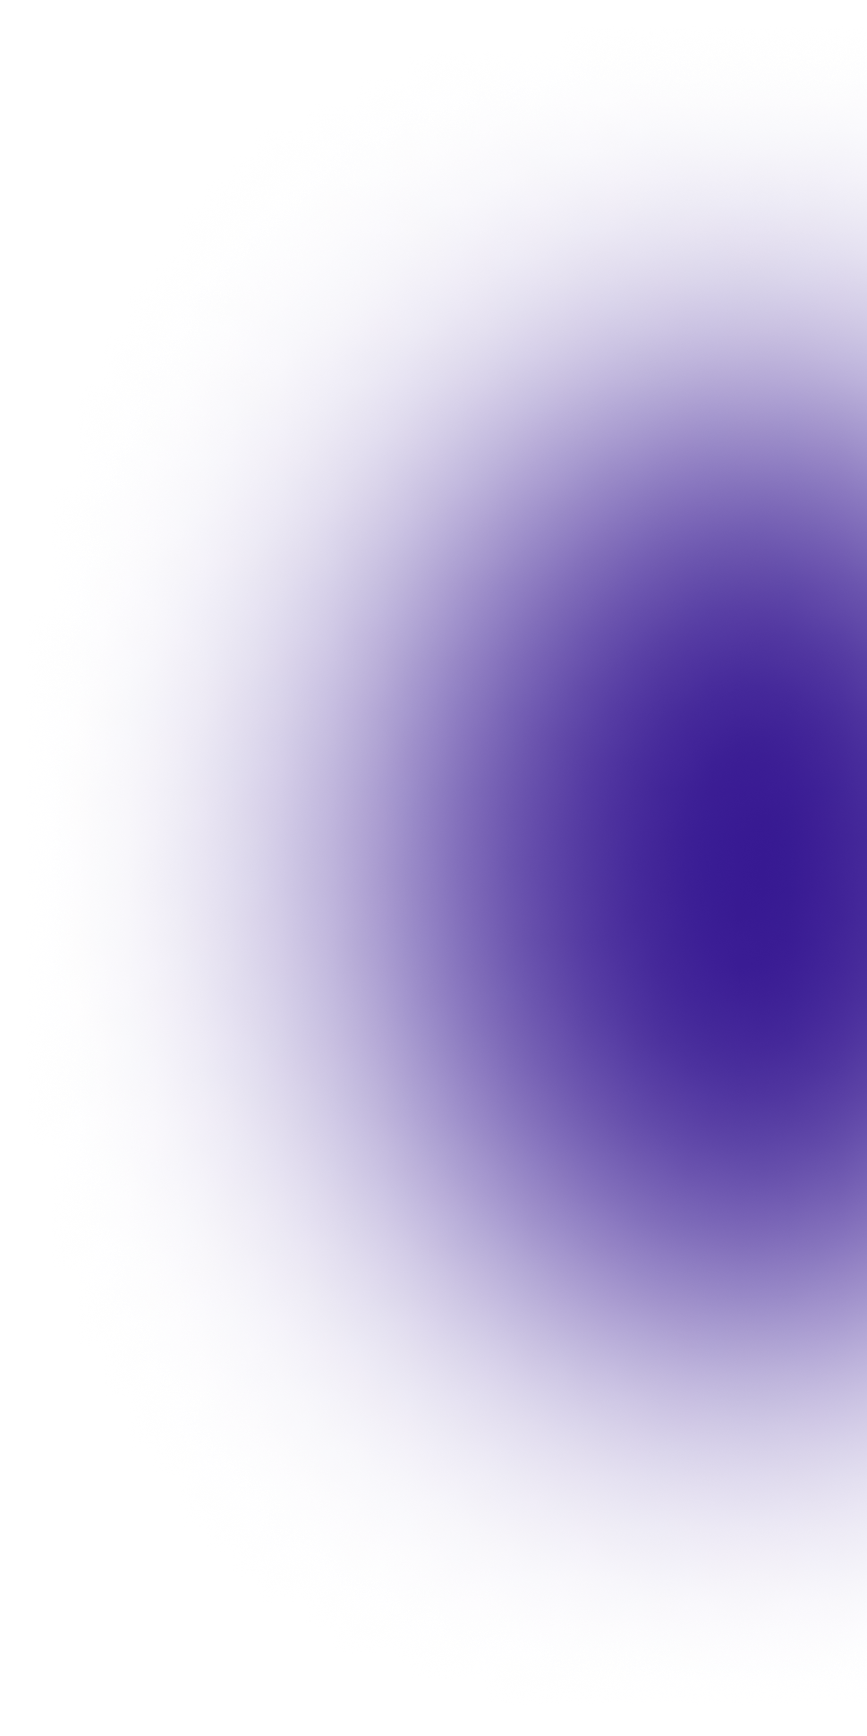
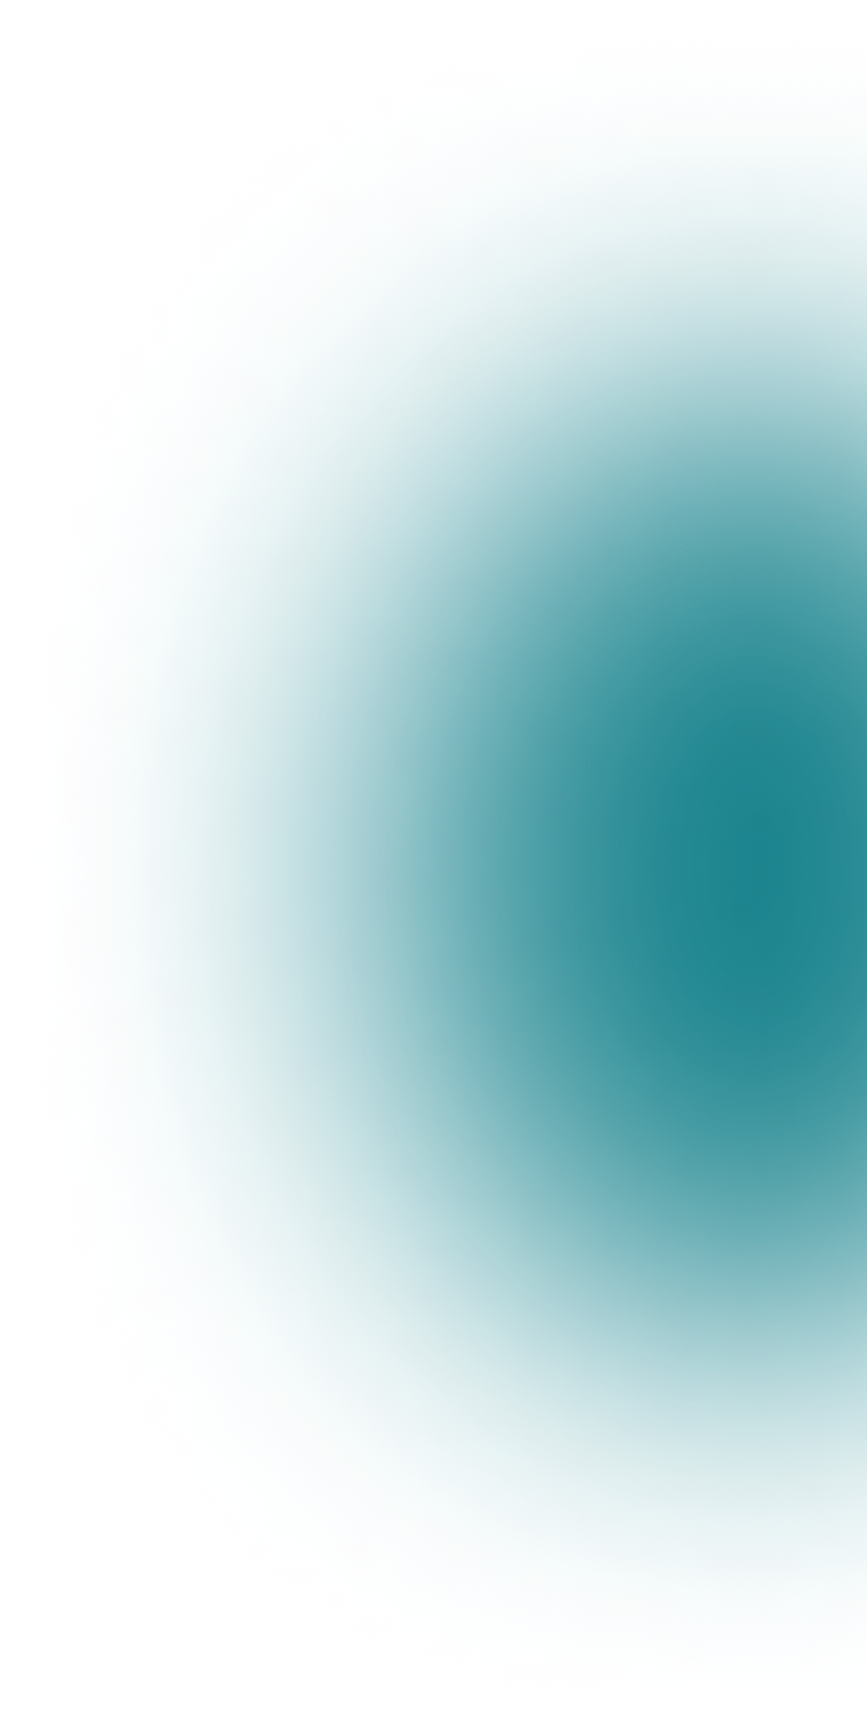
ci

diff --git a/public/assets/PrivacyPolicyBlockPuzzle.html b/public/assets/PrivacyPolicyBlockPuzzle.html
@@ -53,45 +53,52 @@
     <div class="section">
         <h2>Scope</h2>
         <p>
-		This Privacy Policy ("Policy") governs the practices of FoshanGreengrass 佛山市绿草块软件开发有限责任公司 ("佛山市绿草块软件开发有限责任公司," "we," "our," or "us") regarding the collection, use, disclosure, and handling of information, including personal and device information, in relation to all our products, software, services, and websites (collectively referred to as "Services"). By accessing and using our Services, you ("you" or "your") consent to the terms outlined in this Policy.
-Our products：Fire Away Brother! - Shooting、Crossmath Number Chain、Green Block Blast!、Circle shape sort、Sudoku CrossMath.
-Our Services are intended for individuals who can legally enter into binding contracts. If you are under the age of 13 or lack the legal capacity to enter into binding contracts, you must refrain from using our Services and providing any personal information. If you do not agree with this Policy, please do not access, sign up for, or use our Services.
-佛山市绿草块软件开发有限责任公司 reserves the right to amend this Policy at any time. We encourage you to periodically review this section for updates and changes. Significant changes may be communicated to you via email or system messages.
-For inquiries related to privacy matters, please contact our Privacy Officer at the following email address: lvcaokuai666@gmail.com.
+		This Privacy Policy ("Policy") governs the practices of AbsoluteSecure Limited ("AbsoluteSecure Limited," "we," "our," or "us") regarding the collection, use, disclosure, and handling of information, including personal and device information, in relation to all our products, software, services, and websites (collectively referred to as "Services"). By accessing and using our Services, you ("you" or "your") consent to the terms outlined in this Policy. 
+
+Our products include: *Tile & Win - Fruit Fortune*, *Ball Sort*, *Black Hole Wars*, and *Sudoku CrossMath Block Solitaire*. Our Services are intended for individuals who can legally enter into binding contracts. If you are under the age of 13 or lack the legal capacity to enter into binding contracts, you must refrain from using our Services and providing any personal information. If you do not agree with this Policy, please do not access, sign up for, or use our Services. AbsoluteSecure Limited reserves the right to amend this Policy at any time. We encourage you to periodically review this section for updates and changes. Significant changes may be communicated to you via email or system messages.
+
+For inquiries related to privacy matters, please contact our Privacy Officer at the following email address: **absolutesecurelimited@gmail.com**.
 		</p>
     </div>
 
     <div class="section">
         <h2>Acceptance</h2>
         <p>
-		Please carefully read this Policy before using or accessing our Services. By accepting this Policy, you agree to the collection, storage, use, and disclosure of your information as outlined in the following sections. If you do not agree with any aspect of this Policy, please refrain from using our Service.
-Information Collection and Methods
+		Please carefully read this Policy before using or accessing our Services. By accepting this Policy, you agree to the collection, storage, use, and disclosure of your information as outlined in the following sections. If you do not agree with any aspect of this Policy, please refrain from using our Services.
 		</p>
     </div>
 
     <div class="section">
         <h2>Information Collection and Methods</h2>
         <h3>Personal Information:</h3>
-        <p>Upon registering for a user account within any of our Services, we collect personal information that can identify you ("Personal Data," "data," or "information"). Personal Data may also be collected automatically or through third-party partners or services.</p>
+        <p>Personal Information:
+Upon registering for a user account within any of our Services, we collect personal information that can identify you ("Personal Data," "data," or "information"). Personal Data may also be collected automatically or through third-party partners or services.
 
-        <h4>1. Information collection and use</h4>
-        <p><strong>1.1 Firebase Analytics:</strong> Our game uses Firebase Analytics to collect anonymous user data to improve game performance and user experience.This data includes, but is not limited to, device information, game events, app usage, and error reports. This information will be used to analyze and improve our games but will not be linked to your personally identifiable information.</p>
-        <p><strong>1.2 AdMob Advertising Service:</strong> Our games may use AdMob Advertising Service to display advertisements.AdMob may collect information about your device and user behavior to provide relevant advertising. For information about AdMob's privacy policy, see AdMob Privacy Policy.</p>
+1. Information Collection and Use
+1.1 **Firebase Analytics**: Our games use Firebase Analytics to collect anonymous user data to improve game performance and user experience. This data includes, but is not limited to, device information, game events, app usage, and error reports. This information will be used to analyze and improve our games but will not be linked to your personally identifiable information.
 
-        <h4>2. Privacy Choices</h4>
-        <p><strong>2.1 Refusal of data collection:</strong> You can choose to reject data collection in the game settings.However, please note that this may affect your gaming experience or cause certain features to be unavailable.</p>
+   1.2 **AdMob Advertising Service**: Our games may use AdMob Advertising Service to display advertisements. AdMob may collect information about your device and user behavior to provide relevant advertising. For more details on how AdMob handles your information, please refer to the AdMob Privacy Policy.
 
-        <h4>3. Information sharing</h4>
-        <p><strong>3.1 Third-party service providers:</strong> We may share anonymous data with third-party service providers to improve game performance.These third-party service providers are subject to their own privacy policies.</p>
+   1.3 **User Permissions**: Our applications may request certain permissions from your device, such as access to storage, location data, or other device functionalities, to enhance the user experience. You will have the option to grant or deny these permissions when prompted.
 
-        <h4>4. Children’s privacy</h4>
-        <p><strong>4.1 Children's Privacy Protection:</strong> Our games are intended for a general audience and are not intended for children under the age of 13. If you believe that we may have collected personal information from a minor, please contact us and we will take steps to delete the information as quickly as possible.</p>
+2. Privacy Choices
+2.1 **Refusal of Data Collection**: You can choose to reject data collection in the game settings. However, please note that this may affect your gaming experience or cause certain features to be unavailable.
 
-        <h4>5. Security</h4>
-        <p><strong>5.1 Data Security:</strong> We take reasonable measures to protect the security of your data.but please understand that there are certain risks in information transmission on the Internet, and 100% security cannot be guaranteed.</p>
+   2.2 **Opt-out of Targeted Advertising**: If you prefer not to receive personalized ads based on your usage, you can opt out through your device settings or through the game settings. Please be aware that opting out may not remove all advertisements, but they will be less relevant to your interests.
 
-        <h4>6. Privacy Policy Update</h4>
-        <p><strong>6.1 Privacy Policy Changes:</strong> We may update this Privacy Policy from time to time to reflect changes in the law, improvements to our services, or other factors. The updated Privacy Policy will be notified to you prior to its effective date.</p>
+3. Information Sharing
+3.1 **Third-party Service Providers**: We may share anonymous data with third-party service providers to improve game performance. These third-party service providers are subject to their own privacy policies.
+
+   3.2 **Advertising Partners**: To provide a free or low-cost service, we work with advertising partners who may collect data such as device identifiers, IP addresses, and usage patterns to deliver targeted advertisements. We ensure that our partners comply with applicable privacy laws and regulations.
+
+4. Children’s Privacy
+4.1 **Children's Privacy Protection**: Our games are intended for a general audience and are not intended for children under the age of 13. If you believe that we may have collected personal information from a minor, please contact us and we will take steps to delete the information as quickly as possible.
+
+5. Security
+5.1 **Data Security**: We take reasonable measures to protect the security of your data. However, please understand that there are certain risks in information transmission on the Internet, and 100% security cannot be guaranteed.
+
+6. Privacy Policy Update
+6.1 Privacy Policy Changes: We may update this Privacy Policy from time to time to reflect changes in the law, improvements to our services, or other factors. The updated Privacy Policy will be notified to you prior to its effective date.</p>
     </div>
 
 
@@ -113,27 +120,24 @@ Information Collection and Methods
 
         <h4>6. How and Why We Use Your Information</h4>
         <p>
-		We employ your information for the following purposes:<br>
-		1. Communication: To facilitate communication and interaction with you.<br>
-		2. Service Functionality: To ensure the functionality and performance of our Services.<br>
-		3. Service Enhancement: To enhance and improve our Services for a better user experience.<br>
-		4. Business Development: For the development and growth of our business.<br>
-		5. Protection Against Fraud and Spam: To identify and prevent misuse, such as spam and illegal content.<br>
-		We may share the collected information, excluding personal information, with third parties, such as advertisers, to facilitate commercial advertisements. This information exchange generates revenue to partly or fully cover Service costs. We do not provide personal information to third parties except for billing purposes.
-To serve personalized advertisements using third-party advertising networks, we analyze your information and use automated systems to provide personalized services and targeted advertisements. This also aids in identifying and preventing misuse, such as spam and illegal content.
-To provide personalized advertisements within our Services through third-party advertising networks. While our legal basis is legitimate interest in business operation, if you are in the European Economic Area, Norway, or Switzerland, certain third-party advertising networks may require your consent to process Personal Data for personalized advertising. This involves collecting your mobile device advertising identifier and IP address for personalizing ads. To withdraw consent or opt-out of personalized advertising, refer to the "Opt-out of Targeted Advertising" section below.
-		</p>
+		We use your information for the following purposes:
+1. Communication: To facilitate communication and interaction with you.
+2. Service Functionality: To ensure the functionality and performance of our Services.
+3. Service Enhancement: To enhance and improve our Services for a better user experience.
+4. Business Development: For the development and growth of our business.
+5. Protection Against Fraud and Spam: To identify and prevent misuse, such as spam and illegal content.
+6. Advertising: To serve personalized advertisements using third-party advertising networks. We analyze your information to provide targeted advertisements. In regions such as the European Economic Area, Norway, or Switzerland, certain third-party networks may require your consent for personalized ads.</p>
     </div>
 	
 	    <div class="section">
         <h4>Security</h4>
-        <p>We implement industry-standard security measures to safeguard against the loss, misuse, and alteration of information under our control. However, please note that no internet data transmission is completely secure. Thus, we cannot ensure or warrant the security of any data transmitted over the Service, and any transmission is at your own risk..</p>
+        <p>We implement industry-standard security measures to safeguard against the loss, misuse, and alteration of information under our control. However, please note that no internet data transmission is completely secure. Thus, we cannot ensure or warrant the security of any data transmitted over the Service, and any transmission is at your own risk.</p>
     
 	        <h4>Transfers of Your Information</h4>
         <p>By using the Service or providing us with your information, you acknowledge that your information may be transferred, processed, and stored on servers located outside your country or jurisdiction, including the United States. Such locations may have data protection laws less stringent than those in your residence jurisdiction. If you oppose the transfer, processing, or maintenance of your information outside your jurisdiction, refrain from using the Service.</p>
     
 	        <h4>Age Limits</h4>
-        <p>Our Services are not designed for users under the age of sixteen (16). We will not knowingly collect personal information directly from individuals under the age of sixteen (16) without parental consent. If you are under sixteen (16), do not share any information with us. We advise parents and guardians to supervise their children online and familiarize themselves with the websites their children visit. If you suspect we've inadvertently collected information from a child under sixteen (16), please contact us immediately at lvcaokuai666@gmail.com.</p>
+        <p>Our Services are not designed for users under the age of sixteen (16). We will not knowingly collect personal information directly from individuals under the age of sixteen (16) without parental consent. If you are under sixteen (16), do not share any information with us. We advise parents and guardians to supervise their children online and familiarize themselves with the websites their children visit. If you suspect we've inadvertently collected information from a child under sixteen (16), please contact us immediately at absolutesecurelimited@gmail.com.</p>
     
 	        <h4>Links to Other Websites and Third-Party Ads</h4>
         <p>Our Services may include advertisements or hyperlinks to other websites, including those of business partners, vendors, and advertisers. These advertisements and third-party websites may employ cookies, web beacons, or other devices. We do not control these technologies or have access to the information they collect. We are not responsible for the content or privacy practices of third parties.</p>
@@ -167,25 +171,22 @@ To provide personalized advertisements within our Services through third-party a
         <p>Upon request, we will delete your personal information from our records, subject to certain exceptions as provided by applicable laws.</p>
     
 		        <h4>Exercising Your Rights</h4>
-        <p>To exercise your rights under California law, you may submit a verifiable request to us by either visiting our website or contacting us via email at lvcaokuai666@gmail.com. Please include "California Privacy Rights" in the subject line and provide your name, contact information, and a description of the request. We may request additional information to verify your identity and prevent unauthorized access.
-Please note that California law allows us up to 45 days to respond to your request. In some cases, we may require an extension of up to 90 days. We will notify you if an extension is necessary, along with the reason for the delay.</p>
+        <p>To exercise your rights under California law, you may submit a verifiable request to us by either visiting our website or contacting us via email at absolutesecurelimited@gmail.com. Please include "California Privacy Rights" in the subject line and provide your name, contact information, and a description of the request. We may request additional information to verify your identity and prevent unauthorized access. Please note that California law allows us up to 45 days to respond to your request. In some cases, we may require an extension of up to 90 days. We will notify you if an extension is necessary, along with the reason for the delay..</p>
     
 			        <h4>Non-Discrimination</h4>
         <p>We will not discriminate against you for exercising your California privacy rights. However, please be aware that if you exercise your right to delete or limit the use of certain information, it may affect your ability to use certain features of our Services.</p>
 		
 				        <h4>Contact Us</h4>
-        <p>If you have any questions, concerns, or feedback about this Privacy Policy, please contact us at lvcaokuai666@gmail.com. We value your privacy and are committed to addressing your inquiries.</p>
+        <p>If you have any questions, concerns, or feedback about this Privacy Policy, please contact us at absolutesecurelimited@gmail.com. We value your privacy and are committed to addressing your inquiries.</p>
 		
 				        <h4>Changes to this Privacy Policy</h4>
-        <p>佛山市绿草块软件开发有限责任公司 reserves the right to update this Privacy Policy periodically. We encourage you to review this Policy regularly to stay informed about how we are protecting your information. Your continued use of our Services after changes have been posted constitutes your agreement to the updated Policy.</p>
+        <p>AbsoluteSecure Limited reserves the right to update this Privacy Policy periodically. We encourage you to review this Policy regularly to stay informed about how we are protecting your information. Your continued use of our Services after changes have been posted constitutes your agreement to the updated Policy.</p>
 		
 				        <h4>Conclusion</h4>
-        <p>We understand the importance of your privacy and are dedicated to protecting your personal information. This Privacy Policy outlines how we collect, use, and safeguard your data. By using our Services, you agree to the practices described herein.
-Thank you for choosing 佛山市绿草块软件开发有限责任公司. We look forward to providing you with high-quality products, software, services, and websites while ensuring your privacy is maintained.
-This Privacy Policy was last updated on the date mentioned at the beginning of the document.
-If you have any concerns or questions regarding this Privacy Policy, please do not hesitate to contact us at lvcaokuai666@gmail.com.
-Sincerely,<br>
-The 佛山市绿草块软件开发有限责任公司 Team</p>
+        <p>We understand the importance of your privacy and are dedicated to protecting your personal information. This Privacy Policy outlines how we collect, use, and safeguard your data. By using our Services, you agree to the practices described herein. Thank you for choosing AbsoluteSecure Limited. We look forward to providing you with high-quality products, software, services, and websites while ensuring your privacy is maintained.
+This Privacy Policy was last updated on the date mentioned at the beginning of the document. If you have any concerns or questions regarding this Privacy Policy, please do not hesitate to contact us at absolutesecurelimited@gmail.com.
+Sincerely,
+The AbsoluteSecure Limited Team</p>
 	</div>
     <!-- Continue adding sections as needed -->
 

diff --git a/public/index.html b/public/index.html
@@ -48,14 +48,14 @@
             <div class="row">
               <div class="col-lg-6 text-center text-lg-left">
                   <h1 class="font__size--64 text__60-1024 text__60-sm bold mb-0">
-                      Where Casual Gaming Meets Endless Fun!
+                      Unlock fun, one tile at a time with AbsoluteSecure!
                   </h1>
                   <p class="normal font__size--18 text__18-1024 lh-2 my-4">
-                      Green Grass Block Company is an innovative
+                      AbsoluteSecure Limited is a leader in leisure game development.
                       <br class="d-none d-sm-block" />
-                      enterprise focused on leisure
+                      We create engaging and enjoyable games.
                       <br class="d-none d-sm-block" />
-                      game development.
+                      Our experiences captivate players of all ages.
                   </p>
 
                 <div
@@ -121,7 +121,7 @@
             <div class="position-relative z-2">
               <div class="text-center mb-5">
                   <h3 class="bold font__size--40 text__40-1024 text__40-mm color__white">
-                      Introduction
+                      Our Advantages
                   </h3>
               </div>
 
@@ -133,10 +133,10 @@
                     01
                   </h5>
                   <h4 class="bold font__size--24 text__24-1024 color__white">
-                      Creative Design
+                      Innovative Gameplay
                   </h4>
                   <p class="medium font__size--16 text__16-1024 opacity__5">
-                      Our games offer fresh and engaging challenges that captivate players of all skill levels.
+                      Experience unique and exciting challenges that appeal to players of all skill levels.
                   </p>
                 </div>
                 <div class="col-md-4 mb-4 mb-md-0 mt__ms-0 mt__4">
@@ -146,10 +146,10 @@
                     02
                   </h5>
                   <h4 class="bold font__size--24 text__24-1024 color__white">
-                      Visual Delight
+                      Stunning Visuals
                   </h4>
                   <p class="medium font__size--16 text__16-1024 opacity__5">
-                      Immerse yourself in stunning graphics and animations that enhance your gaming experience.
+                      Dive into captivating graphics and animations that elevate your gaming adventure.
                   </p>
                 </div>
                 <div class="col-md-4 mt__ms-0 mt__8">
@@ -159,10 +159,10 @@
                     03
                   </h5>
                   <h4 class="bold font__size--24 text__24-1024 color__white">
-                      Social Fun
+                      Community Play
                   </h4>
                   <p class="medium font__size--16 text__16-1024 opacity__5">
-                      Connect with friends, share achievements, and compete with a global gaming community.
+                      Join friends, share your victories, and compete within a vibrant global gaming network.
                   </p>
                 </div>
               </div>
@@ -237,7 +237,7 @@
 		
 
 		         <div class="text-center position-relative z-2 medium font__size--14 text__14-1024 text__14-1024 py-4">
-              <a href="assets/PrivacyPolicyBlockPuzzle.html">Privacy Policy</a> | <a href="assets/TermsofServiceBlockPuzzle.html">Terms and Conditions</a>
+              <a href="assets/PrivacyPolicyBlockPuzzle.html">Privacy Policy</a>   |   <a href="assets/TermsofServiceBlockPuzzle.html">Terms and Conditions</a>
             </div>
       </section>
 

diff --git a/public/assets/css/main.css b/public/assets/css/main.css
@@ -747,7 +747,7 @@ section {
 }
 
 .bg__purple-2 {
-  background-color: #19113A !important;
+    background-color: #0D404B !important;
 }
 
 .bg__gray-1 {
@@ -1055,7 +1055,7 @@ section {
 }
 
 .color__purple-2 {
-  color: #19113A !important;
+    color: #0D404B !important;
 }
 
 .color__gray-1 {
@@ -2205,7 +2205,7 @@ h5 {
   color: white !important;
 }
 .btn__purple {
-  background-color: #9C7EFB;
+    background-color: #1FAC00;
 }
 .btn__purple.shadow {
   box-shadow: none !important;
@@ -2241,8 +2241,8 @@ h5 {
   color: white !important;
 }
 .btn__purple-2 {
-  color: #ffffff;
-  background-color: #19113A;
+    color: #ffffff;
+    background-color: #0D404B;
 }
 .btn__purple-2.shadow {
   box-shadow: none !important;
@@ -2251,15 +2251,15 @@ h5 {
   box-shadow: 0 15px 30px rgba(25, 17, 58, 0.5) !important;
 }
 .btn__outlined--purple-2 {
-  border: 2px solid #19113A;
-  color: #19113A;
-  opacity: 0.3;
-  background-color: transparent;
-  transition: 0.5s;
+    border: 2px solid #0D404B;
+    color: #0D404B;
+    opacity: 0.3;
+    background-color: transparent;
+    transition: 0.5s;
 }
-.btn__outlined--purple-2.b-1 {
-  border: 1px solid #19113A;
-}
+    .btn__outlined--purple-2.b-1 {
+        border: 1px solid #0D404B;
+    }
 .btn__outlined--purple-2.h__black:hover {
   color: #0E0824 !important;
 }
